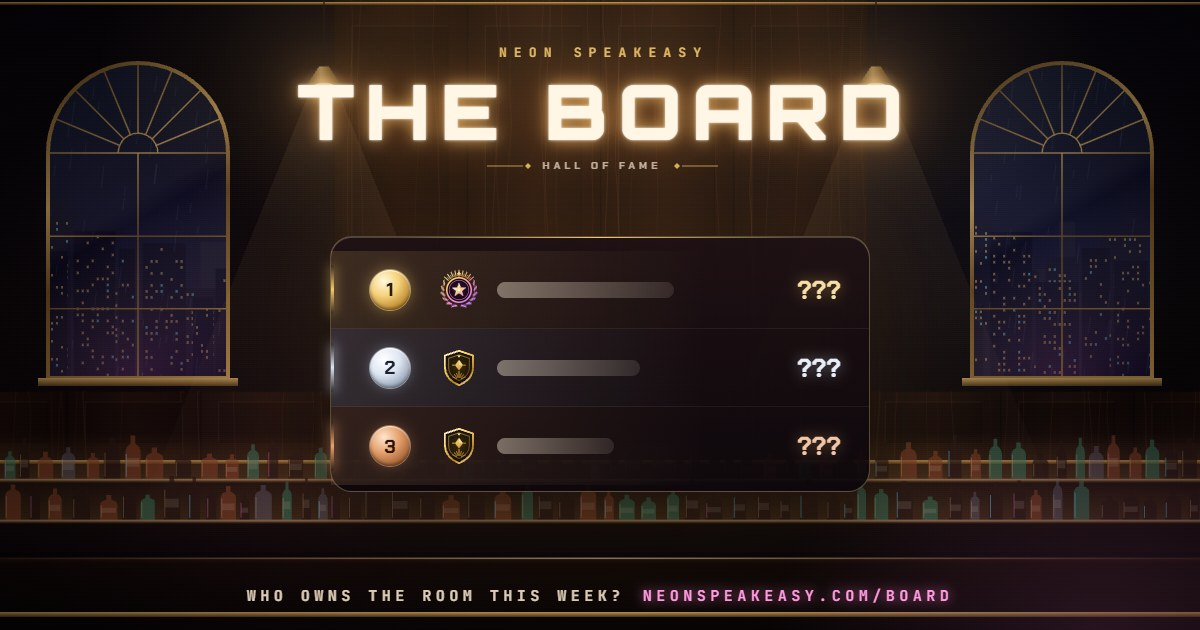
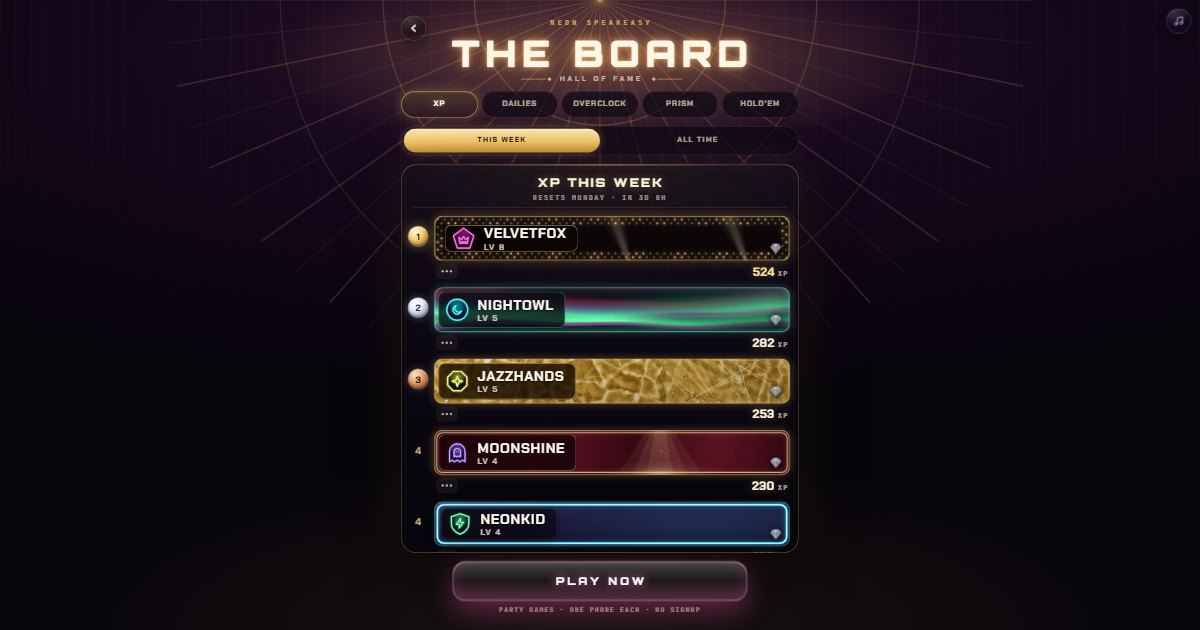
FR7 FIXES B — Group 1: THE LAUNCH's code (E2 the freezes carried, E3 the founder sweep only while open, E4 counted plays reset), /board's link preview re-shot from the velvet board, og tags on www, docs/launch.md

diff --git a/api/_lib/reset.js b/api/_lib/reset.js
@@ -4,7 +4,8 @@
 //       boards (lb entries) }, line } — nothing written. confirm true + typed === 'RESET':
 //       1. THE BACKUP — backups/{stamp}: every profile's whole pstats + its profile's progress fields, lb/, pcount/n + pcount/a (server only:
 //          no rule reads it; ~a few KB a player — the free plan's 1 GB holds thousands of them); the newest BACKUP_KEEP kept
-//       2. FOUNDING MEMBER FIRST — founderSweep(): every player who qualifies gets the card BEFORE anything is wiped (never costs anyone it)
+//       2. FOUNDING MEMBER FIRST — founderSweep(): every player who qualifies gets the card BEFORE anything is wiped (never costs anyone it) —
+//          ONLY while the founder window is OPEN (FR7 FIXES B — E3: closed = no sweep)
 //       3. THE RESET — pstats/{pid} = resetStats(…), profiles/{pid}/{x,l,r,s,sd,m}, lb/ removed, pcount/n + pcount/a removed (the
 //          achievements' "X% have this" start again; pcount/i — the items' — stays: everyone keeps them)
 //     → { done, stamp, preview, line, founders }. A second run is harmless (everything is already at zero; a new small backup).
@@ -13,7 +14,7 @@
 //       backup's merged in — a restore never takes an item away)
 import { ref, val } from './fb.js';
 import { resetStats, resetProfile, resetCost, previewLine, RESET_STATS } from '../../js/core/reset.js';
-import { founderSweep } from './founder.js';
+import { founderSweep, founderOpen, clearFounderCache } from './founder.js';
 import { clearBoardCache } from './lb.js';
 import { ApiError } from './http.js';
 
@@ -26,12 +27,12 @@ async function snapshot() {
 }
 
 function previewOf(S) {
-  const p = { profiles: 0, xp: 0, records: 0, achievements: 0, streaks: 0, items: 0, boards: 0 };
+  const p = { profiles: 0, xp: 0, records: 0, achievements: 0, streaks: 0, plays: 0, items: 0, boards: 0 };
   for (const pid of Object.keys(S.profiles)) {
     if (!S.profiles[pid] || !S.profiles[pid].n) continue;
     p.profiles++;
     const c = resetCost(S.stats[pid]);
-    p.xp += c.xp; p.records += c.records; p.achievements += c.achievements; p.streaks += c.streak ? 1 : 0;
+    p.xp += c.xp; p.records += c.records; p.achievements += c.achievements; p.streaks += c.streak ? 1 : 0; p.plays += c.plays || 0;
   }
   for (const periods of Object.values(S.lb || {})) for (const rows of Object.values(periods || {})) p.boards += Object.keys(rows || {}).length;
   return p;
@@ -50,8 +51,10 @@ export async function progressReset({ confirm = false, typed = '', me = null, no
   await ref(`backups/${stamp}`).set({ at: now, by: me, profiles: preview.profiles, s: S0.stats, p: prof, lb: S0.lb, pn: S0.pn, pa: S0.pa, ra: ra0 || null });
   const all = Object.keys((await val('backups')) || {}).sort();
   if (all.length > BACKUP_KEEP) await ref('backups').update(Object.fromEntries(all.slice(0, all.length - BACKUP_KEEP).map(k => [k, null])));
-  // 2. FOUNDING MEMBER FIRST
-  const founders = await founderSweep(now);
+  // 2. FOUNDING MEMBER FIRST — only while THE FOUNDER WINDOW is OPEN (FR7 FIXES B — E3: a reset after the window closed must never hand the
+  //    card to everyone who played since; the window's switch is read fresh, never the 30 s cache)
+  clearFounderCache();
+  const founders = (await founderOpen(now)) ? await founderSweep(now) : 0;
   // 3. THE RESET (read again: the sweep just granted cards)
   const stats = (await val('pstats')) || {};
   // (FR7 FIXES A — E1: THE RESET EPOCH — the back-fill rebuilds the boards only from after it; in the SAME update as the reset)

diff --git a/js/core/reset.js b/js/core/reset.js
@@ -4,15 +4,17 @@
 //   RESETS (pstats/{pid}): xp (→ LEVEL 1, the emblem rank), g (the career counters = MASTERY + the per-match counters), gw + wk (this
 //     week), b (the records), day, gd (the weekly goal paid), pa + ac (the achievements' progress + the achievements), dl (the dailies),
 //     st (THE STREAK — its run, best, history, win-back; the FREEZES HELD stay: a freeze is a reward)
+//     cp (COUNTED PLAYS — FR7 FIXES B, E4, the owner: a veteran is listed on the boards again after 3 counted plays, like everyone)
 //   RESETS (profiles/{pid}): x, l, r (XP, level, rank), s + sd (the streak shown), m (counted matches — the boards' 3-match floor)
 //   KEEPS: it (EVERY item: cards, emblems, tube styles, glows, finishes — the dev + gift 1-of-1s, FOUNDING MEMBER), fv (favors held), m{}
 //     (the counted-match keys: a match from before the reset can never be counted again), ov (the overlap windows), fd, last, and any field
 //     this list doesn't name (a future node is kept, never wiped by accident); the profile itself — name, tag, colour, emblem, MEMBER Nº,
 //     the key, the equipped card + finishes
 import { levelOf, emblemRank } from './levels.js';
+import { countedPlays } from './progress.js';
 
 /** the progress fields of pstats/{pid} that the reset clears */
-export const RESET_STATS = Object.freeze(['xp', 'xw', 'dp', 'g', 'gw', 'wk', 'b', 'day', 'gd', 'pa', 'ac', 'dl', 'st']);   // (BOARD 2.0 A: + xw — this week's XP, dp — the daily points)
+export const RESET_STATS = Object.freeze(['xp', 'xw', 'dp', 'g', 'gw', 'wk', 'b', 'day', 'gd', 'pa', 'ac', 'dl', 'st', 'cp']);   // (BOARD 2.0 A: + xw — this week's XP, dp — the daily points; FR7 FIXES B — E4, the owner: + cp — COUNTED PLAYS: a veteran is listed again after 3 counted plays, like everyone)
 
 /** one player's stats after the reset (null stays null) */
 export function resetStats(s) {
@@ -37,6 +39,7 @@ export function resetCost(s) {
     records: Object.keys(st.b || {}).length,
     achievements: Object.keys(st.ac || {}).length,
     streak: (st.st && st.st.n) || 0,
+    plays: s ? countedPlays(s) : 0,   // (FR7 FIXES B — E4: the counted plays the reset takes — the boards' 3-play floor applies again)
     items: 0,
   };
 }
@@ -44,7 +47,8 @@ export function resetCost(s) {
 /** THE PREVIEW line: "46 profiles · 12,340 XP · 9 board records · 31 achievements will be reset; 0 items removed" */
 export function previewLine(p) {
   const n = v => Number(v || 0).toLocaleString('en-US');
-  return `${n(p.profiles)} profile${p.profiles === 1 ? '' : 's'} · ${n(p.xp)} XP · ${n(p.records)} board record${p.records === 1 ? '' : 's'} · ${n(p.achievements)} achievement${p.achievements === 1 ? '' : 's'} · ${n(p.streaks)} streak${p.streaks === 1 ? '' : 's'} will be reset; ${n(p.items)} items removed`;
+  const plays = p.plays != null ? ` · ${n(p.plays)} counted play${p.plays === 1 ? '' : 's'}` : '';   // (FR7 FIXES B — E4)
+  return `${n(p.profiles)} profile${p.profiles === 1 ? '' : 's'} · ${n(p.xp)} XP · ${n(p.records)} board record${p.records === 1 ? '' : 's'} · ${n(p.achievements)} achievement${p.achievements === 1 ? '' : 's'} · ${n(p.streaks)} streak${p.streaks === 1 ? '' : 's'}${plays} will be reset; ${n(p.items)} items removed`;
 }
 
 /** the next level with a reward this player does NOT own yet (levels: [{ lvl, item }] — the server's table; owned: { itemId: at }) */

diff --git a/board.html b/board.html
@@ -12,15 +12,15 @@
   <meta property="og:site_name" content="Neon Speakeasy">
   <meta property="og:title" content="THE BOARD — the Neon Speakeasy hall of fame">
   <meta property="og:description" content="Who owns the room this week? Records and wins across twelve party games. Think you can get your name up there?">
-  <meta property="og:url" content="https://neonspeakeasy.com/board">
-  <meta property="og:image" content="https://neonspeakeasy.com/assets/og-board.jpg?v=1">
+  <meta property="og:url" content="https://www.neonspeakeasy.com/board">
+  <meta property="og:image" content="https://www.neonspeakeasy.com/assets/og-board.jpg?v=2">
   <meta property="og:image:width" content="1200">
   <meta property="og:image:height" content="630">
-  <meta property="og:image:alt" content="THE BOARD — a glowing scoreboard behind a speakeasy bar, gold, silver and bronze at the top">
+  <meta property="og:image:alt" content="THE BOARD — gold deco on black velvet, the players' slim cards ranked by XP this week">
   <meta name="twitter:card" content="summary_large_image">
   <meta name="twitter:title" content="THE BOARD — the Neon Speakeasy hall of fame">
   <meta name="twitter:description" content="Records and wins across twelve party games. Get your name up there.">
-  <meta name="twitter:image" content="https://neonspeakeasy.com/assets/og-board.jpg?v=1">
+  <meta name="twitter:image" content="https://www.neonspeakeasy.com/assets/og-board.jpg?v=2">
   <link rel="icon" href="assets/favicon-64.png" type="image/png" sizes="64x64">
   <link rel="icon" href="assets/icon.svg" type="image/svg+xml">
   <link rel="apple-touch-icon" href="assets/apple-touch-icon.png">

diff --git a/api/_lib/board-fill.js b/api/_lib/board-fill.js
@@ -51,13 +51,13 @@ export async function boardsBackfill({ confirm = false, now = Date.now() } = {})
   await openDailies(now).catch(() => {});
   const live = todaysDailies(), wk = weekKey(now);
   const [allResults, stats, allDaily, resetAt] = await Promise.all([val('results'), val('pstats'), readDaily(live, now), val(RESET_AT)]);
-  // FR7 FIXES A — E1, THE RESET EPOCH: the boards rebuild only from what came after THE LAUNCH RESET (core/board-fill.js#sinceReset); who is
-  // listed (COUNTED PLAYS) still reads every record
+  // FR7 FIXES A — E1, THE RESET EPOCH: the boards rebuild only from what came after THE LAUNCH RESET (core/board-fill.js#sinceReset); FR7 FIXES
+  // B — E4 (the owner): COUNTED PLAYS too — the reset clears `cp`, so who is listed counts only the plays after it
   const { results, daily } = sinceReset({ results: allResults || {}, daily: allDaily }, resetAt);
   const week = rebuildWeekXp({ results: results || {}, daily, live, wk });
   const pids = Object.keys(stats || {});
   const pointsPlayers = pids.filter(pid => pointsFromRecords(daily, pid)).length;
-  const plays = countedPlaysFromRecords({ results: allResults || {}, daily: allDaily });
+  const plays = countedPlaysFromRecords({ results: results || {}, daily });
   const profs = (await val('profiles')) || {};
   const listedNow = pids.filter(pid => !boardHidden(profs[pid], stats[pid], minMatches())).length;
   const listedAfter = pids.filter(pid => !boardHidden(profs[pid], { ...stats[pid], cp: plays[pid] || 0 }, minMatches())).length;

diff --git a/index.html b/index.html
@@ -17,8 +17,8 @@
   <meta property="og:site_name" content="Neon Speakeasy">
   <meta property="og:title" content="NEON SPEAKEASY — you’re invited">
   <meta property="og:description" content="Your friends are already inside. Twelve party games for 2–8 players — tap the link on your phone to join the room.">
-  <meta property="og:url" content="https://neonspeakeasy.com/">
-  <meta property="og:image" content="https://neonspeakeasy.com/assets/og.jpg?v=4">
+  <meta property="og:url" content="https://www.neonspeakeasy.com/">
+  <meta property="og:image" content="https://www.neonspeakeasy.com/assets/og.jpg?v=4">
   <meta property="og:image:type" content="image/jpeg">
   <meta property="og:image:width" content="1200">
   <meta property="og:image:height" content="630">
@@ -26,7 +26,7 @@
   <meta name="twitter:card" content="summary_large_image">
   <meta name="twitter:title" content="NEON SPEAKEASY — you’re invited">
   <meta name="twitter:description" content="Your friends are already inside. Twelve party games for 2–8 players — tap the link to join.">
-  <meta name="twitter:image" content="https://neonspeakeasy.com/assets/og.jpg?v=4">
+  <meta name="twitter:image" content="https://www.neonspeakeasy.com/assets/og.jpg?v=4">
   <title>NEON SPEAKEASY</title>
   <link rel="manifest" href="manifest.webmanifest">
   <link rel="icon" href="assets/favicon-64.png" type="image/png" sizes="64x64">

diff --git a/js/core/streak.js b/js/core/streak.js
@@ -64,7 +64,10 @@ export function streakPlay(st0, day, outage = null) {
   const s = st0 && st0.d ? { n: st0.n || 1, d: st0.d, b: st0.b || st0.n || 1, f: st0.f || 0, fn: st0.fn || FREEZE.first, h: { ...(st0.h || {}) }, w: st0.w || null, wm: st0.wm || null } : null;
   const D = dayNum(day);
   if (!s) {
-    const st = { n: 1, d: day, b: 1, f: 0, fn: FREEZE.first, h: { [day]: 1 }, w: null, wm: null };
+    // (FR7 FIXES B — E2: a streak with no run yet may still HOLD freezes — THE PROGRESS RESET keeps `st = { f }`, "a freeze is a reward" —
+    // so a new run starts with them, capped at the hold limit; they used to vanish at the first play after the reset)
+    const f = Math.max(0, Math.min(FREEZE.hold, Math.floor(Number(st0 && st0.f) || 0)));
+    const st = { n: 1, d: day, b: 1, f, fn: FREEZE.first, h: { [day]: 1 }, w: null, wm: null };
     ev.first = true;
     return { st, ev };
   }

diff --git a/js/core/board-fill.js b/js/core/board-fill.js
@@ -63,7 +63,7 @@ export function countedPlaysFromRecords({ results = {}, daily = {} }) {
 /**
  * FR7 FIXES A — E1, THE RESET EPOCH: THE LAUNCH RESET (api/_lib/reset.js) stamps `progress/resetAt`; the back-fill rebuilds THE BOARDS only from
  * what came AFTER it — a match record with `at` ≥ the epoch, a daily run whose START is ≥ the epoch — so a back-fill pressed after the reset
- * never puts the old wins, daily points or this week's XP back. (COUNTED PLAYS — who is listed — still read every record: E4 is the owner's.)
+ * never puts the old wins, daily points or this week's XP back — nor the COUNTED PLAYS (FR7 FIXES B — E4, the owner: the reset clears `cp`).
  * No epoch (never reset) = everything, as before. PURE: → { results, daily } (new objects; the inputs untouched)
  */
 export function sinceReset({ results = {}, daily = {} }, epoch) {

diff --git a/docs/launch.md b/docs/launch.md
@@ -1,0 +1,103 @@
+# THE LAUNCH + THE PRIVATE FLIP — the owner's steps
+
+Written in FR7 FIXES B (Nov 12 2026) from FR7-A's LAUNCH CHECKLIST (`docs/harbor/review-7a.md`) and the owner's split (plan.md "OWNER'S
+NOTES — NOV 12 (afternoon)"): **THE LAUNCH** comes first and the repo stays PUBLIC; **THE PRIVATE FLIP** comes later, only once people are
+really coming. Nothing here was run by a pass — every step is a tap or a command for the owner. Anti-cheat never depends on the code
+being secret (the server checks + replays every result), so nothing in THE LAUNCH waits on THE PRIVATE FLIP.
+
+What the code already does for you (FR7 FIXES A + B): the reset stamps THE RESET EPOCH (a back-fill pressed later never brings old wins
+back), carries every freeze a player holds into their new streak, clears COUNTED PLAYS (a veteran is listed on the boards again after 3
+counted plays, like everyone), and gives FOUNDING MEMBER to nobody new once the window is closed.
+
+## 1. THE LAUNCH (the phone + /admin — ~15 minutes)
+
+Pick a morning: the reset goes **just after 4 am Eastern** (the streak day turns at 4 am — a reset mid-day wipes a half-done day's
+sweep) and **with no room live**.
+
+1. **The day before — clean up (optional).** /admin → **Test players** → FROM THE FIRST → review the pre-ticked rows (test-looking names,
+   no nights played) → PREVIEW → CONFIRM. Nothing is removed without CONFIRM. (Real friends are never pre-ticked by a 0-nights rule alone.)
+2. **Just after 4 am Eastern — check nobody is in a room.** The radio's LEDGER (in the city) shows ROOMS OPEN; it should read 0. If a room
+   is open, wait.
+3. **The dry run.** /admin → **Progress reset** → PREVIEW. Read the line — "N profiles · X XP · … · N counted plays will be reset; 0 items
+   removed". The last part must say **0 items removed**. Nothing is written by PREVIEW.
+4. **The reset.** Type `RESET` → CONFIRM (a second tap). It answers "Done. … Backup b…; N FOUNDING MEMBER cards given first." **Write the
+   backup stamp down** (b + a long number) — /admin → Progress reset → Backups → RESTORE takes everything back if something looks wrong.
+   While the founder window is still open the reset first gives FOUNDING MEMBER to every player who already played — that is the point
+   of doing step 5 AFTER this.
+5. **Close FOUNDING MEMBER — before you tell anyone.** In the city: the radio → THE LEDGER (the right face) → FOUNDER WINDOW → CLOSE (a
+   second tap confirms). Closing sweeps everyone who already played one last time, then nobody new can get the card. (While it is open,
+   ANY first counted match grants it — so it must be closed before strangers play.)
+6. **Check (on your phone, a fresh tab):**
+   - YOUR CARD: LEVEL 1, your cards + emblems + glows still owned and still worn; your member Nº unchanged; FOUNDING MEMBER still yours.
+   - Your streak: 0 days, but the freezes you held are still there (the streak card).
+   - THE BOARD (`/board`): every tab empty ("be the first") — the XP board, DAILIES, OVERCLOCK, PRISM, HOLD'EM.
+   - The radio's LEDGER: FOUNDER WINDOW closed, the holders' count.
+   - (/admin → **The boards** → PREVIEW is now safe to press at any time — THE RESET EPOCH: it only rebuilds from after the reset. It isn't
+     needed.)
+7. **Known after the reset:** the "X% of players have this" line on an item reads high for a while (the player count starts again from
+   zero, the item counts don't) — it settles as people play. A player's level rewards are never granted twice on the re-climb.
+8. **Tell people.** The links: https://www.neonspeakeasy.com (the city) · https://www.neonspeakeasy.com/board (THE BOARD — its link preview
+   is the velvet board since FR7 FIXES B).
+9. **The weekly watch** (five numbers, Mondays): Vercel → Usage → **Edge Requests** + **Fast Data Transfer**; Firebase → Realtime Database →
+   Usage → **peak connections** (the free line is 100) · **downloads** · **storage**; GitHub → the repo's size (Settings → the top) while
+   public. FR7 FIXES B's estimate for a month of 20 friends daily + 4 Fridays: see "THE EDGE REQUESTS" in
+   `docs/harbor/passes/fr7-fixes-b.md`.
+
+## 2. THE PRIVATE FLIP (later — the PC + GitHub + /admin — ~1 hour)
+
+Only once people are really coming. Order matters: the rewrite first (while nobody else has a clone that matters), then the flip, then
+THE RESEED.
+
+1. **Before anything — confirm in Vercel** (Settings → Environment Variables): `KEY_PEPPER` **is set**. If it isn't, NEVER rotate the
+   service-account key (the pepper is derived from it — a new key would break every restore key and every board id). Don't change it.
+2. **Archive the pass screenshots** (they leave the repo's history; you keep them on the PC). In PowerShell, from the repo:
+   ```powershell
+   robocopy docs "$HOME\Downloads\NEON\pass-shots\docs" *.png *.jpg *.jpeg *.webp *.gif /S
+   robocopy screenshots "$HOME\Downloads\NEON\pass-shots\screenshots" /S
+   ```
+3. **A full backup of the repo as it is** (every commit — the way back if anything goes wrong):
+   ```bash
+   cd ~/Documents && git clone --mirror https://github.com/Loewfizzle/trivia.git trivia-backup-before-flip.git
+   ```
+4. **The rewrite, in a FRESH clone** (never in the working folder). Needs `git filter-repo` once: `pip install git-filter-repo`.
+   ```bash
+   cd ~/Documents && git clone https://github.com/Loewfizzle/trivia.git trivia-flip && cd trivia-flip
+   git count-objects -vH                      # the size BEFORE (Nov 12: pack 450 MiB + 152 MiB loose locally; GitHub said 573,690 KB)
+   # the old versions of big files no commit at the tip uses (old songs, old art, old bakes) — their ids:
+   git rev-list --objects --all | git cat-file --batch-check='%(objecttype) %(objectname) %(objectsize)' | awk '$1=="blob" && $3>102400 {print $2}' | sort -u > ../big.txt
+   git ls-tree -r HEAD | awk '{print $3}' | sort -u > ../tip.txt
+   comm -23 ../big.txt ../tip.txt > ../strip-ids.txt
+   # KEEPS: every file at the tip except the pass screenshots; every commit + message (rewritten ids). DROPS: every screenshot under docs/
+   # and screenshots/ (all versions — archived in step 2) + the old versions listed above
+   git filter-repo --strip-blobs-with-ids ../strip-ids.txt --invert-paths --path screenshots/ --path-regex '^docs/.*\.(png|jpe?g|webp|gif)$'
+   git gc --prune=now --aggressive
+   git count-objects -vH                      # the size AFTER (estimated Nov 12: ~300 MB — the shipped music, ~253 MB, is most of what remains)
+   ```
+   Then check the tip still works: `node --test tests/*.test.mjs` (the unit suite) in `trivia-flip`.
+5. **Put it on GitHub** (filter-repo removes the `origin` remote on purpose):
+   ```bash
+   git remote add origin https://github.com/Loewfizzle/trivia.git
+   git push --force --all origin && git push --force --tags origin
+   ```
+   Then retire the old working folder: rename `Documents\trivia` → `trivia-old`, and clone again: `git clone https://github.com/Loewfizzle/trivia.git trivia`
+   (an old clone pushed again would bring the whole history back). Copy `.claude\settings.local.json` and any `*.local.txt` across by hand.
+6. **Flip the repo:** GitHub → the repo → Settings → General → Danger Zone → **Change visibility → Private**.
+7. **At once, prove Vercel still deploys:** push one small commit with the deploy tag in its message and watch Vercel → Deployments build
+   it. (Hobby checks that a private repo's commit author has access — every commit is yours; the Co-Authored-By lines are untested.) If it
+   is BLOCKED: Vercel → Settings → Git → reconnect the repo.
+8. **The workflows switch themselves** (FR7 FIXES B — THE PRIVATE-REPO WORKFLOW): once private, a pass's final push runs only the light
+   tests workflow; the cloud Harbor run is skipped (the full Harbor suite already runs on the mini PC before every final push).
+   `gh workflow run harbor` still runs it by hand. Check the first final push: `gh run list` shows tests ran, harbor skipped.
+9. **THE RESEED:** /admin → **The dailies** → RESEED · PREVIEW (read the plan, nothing written) → RESEED NOW (a second tap). Fresh daily
+   answers from the next 4 am Eastern; today's run and every past result untouched. (Before OVERCLOCK's daily is ever switched on: its
+   reserve's salt changes + a rebuild — its picks were public.)
+10. **Check:** the site loads (nothing on it reads from GitHub); `/board` + the city as usual; the next morning's dailies play; GitHub →
+    Settings → Billing → Actions minutes after the first week (the estimate is below).
+
+## THE REPO's GROWTH RULE (D4 — from FR7 FIXES B)
+
+(filled in Group 3 — see below)
+
+## THE MINUTES ONCE PRIVATE (D1 — from FR7 FIXES B)
+
+(filled in Group 4 — see below)
